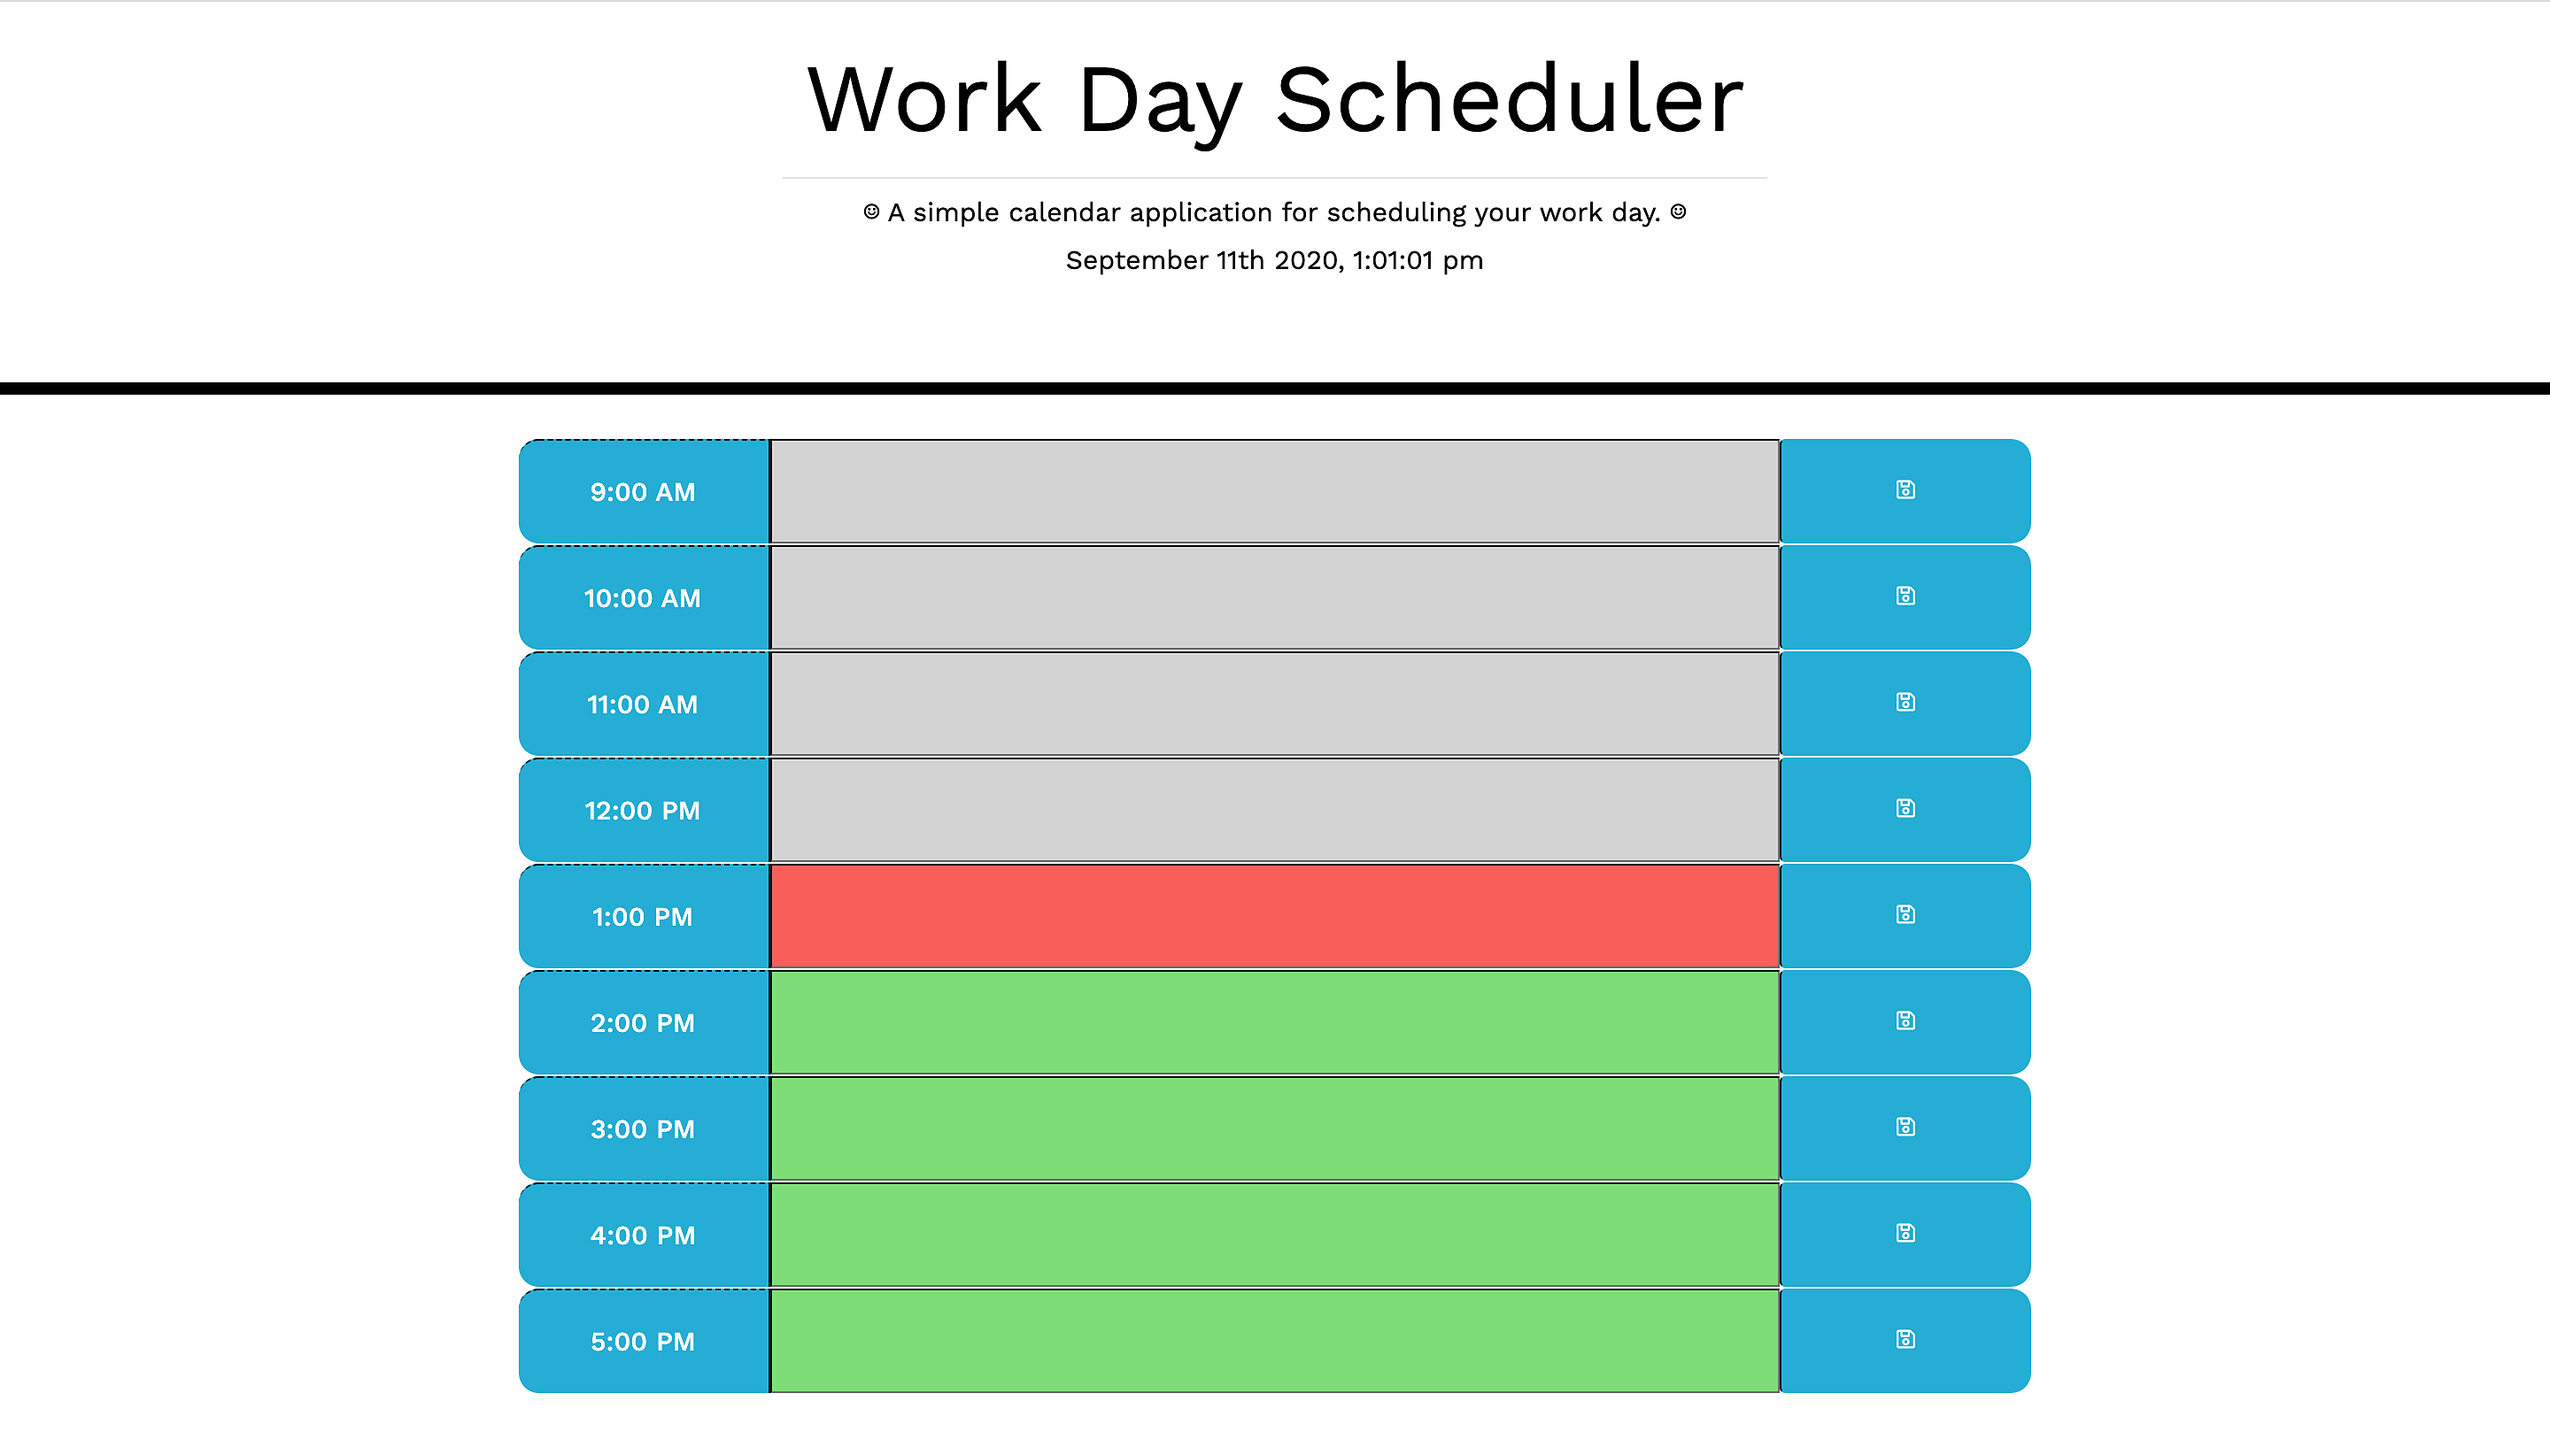
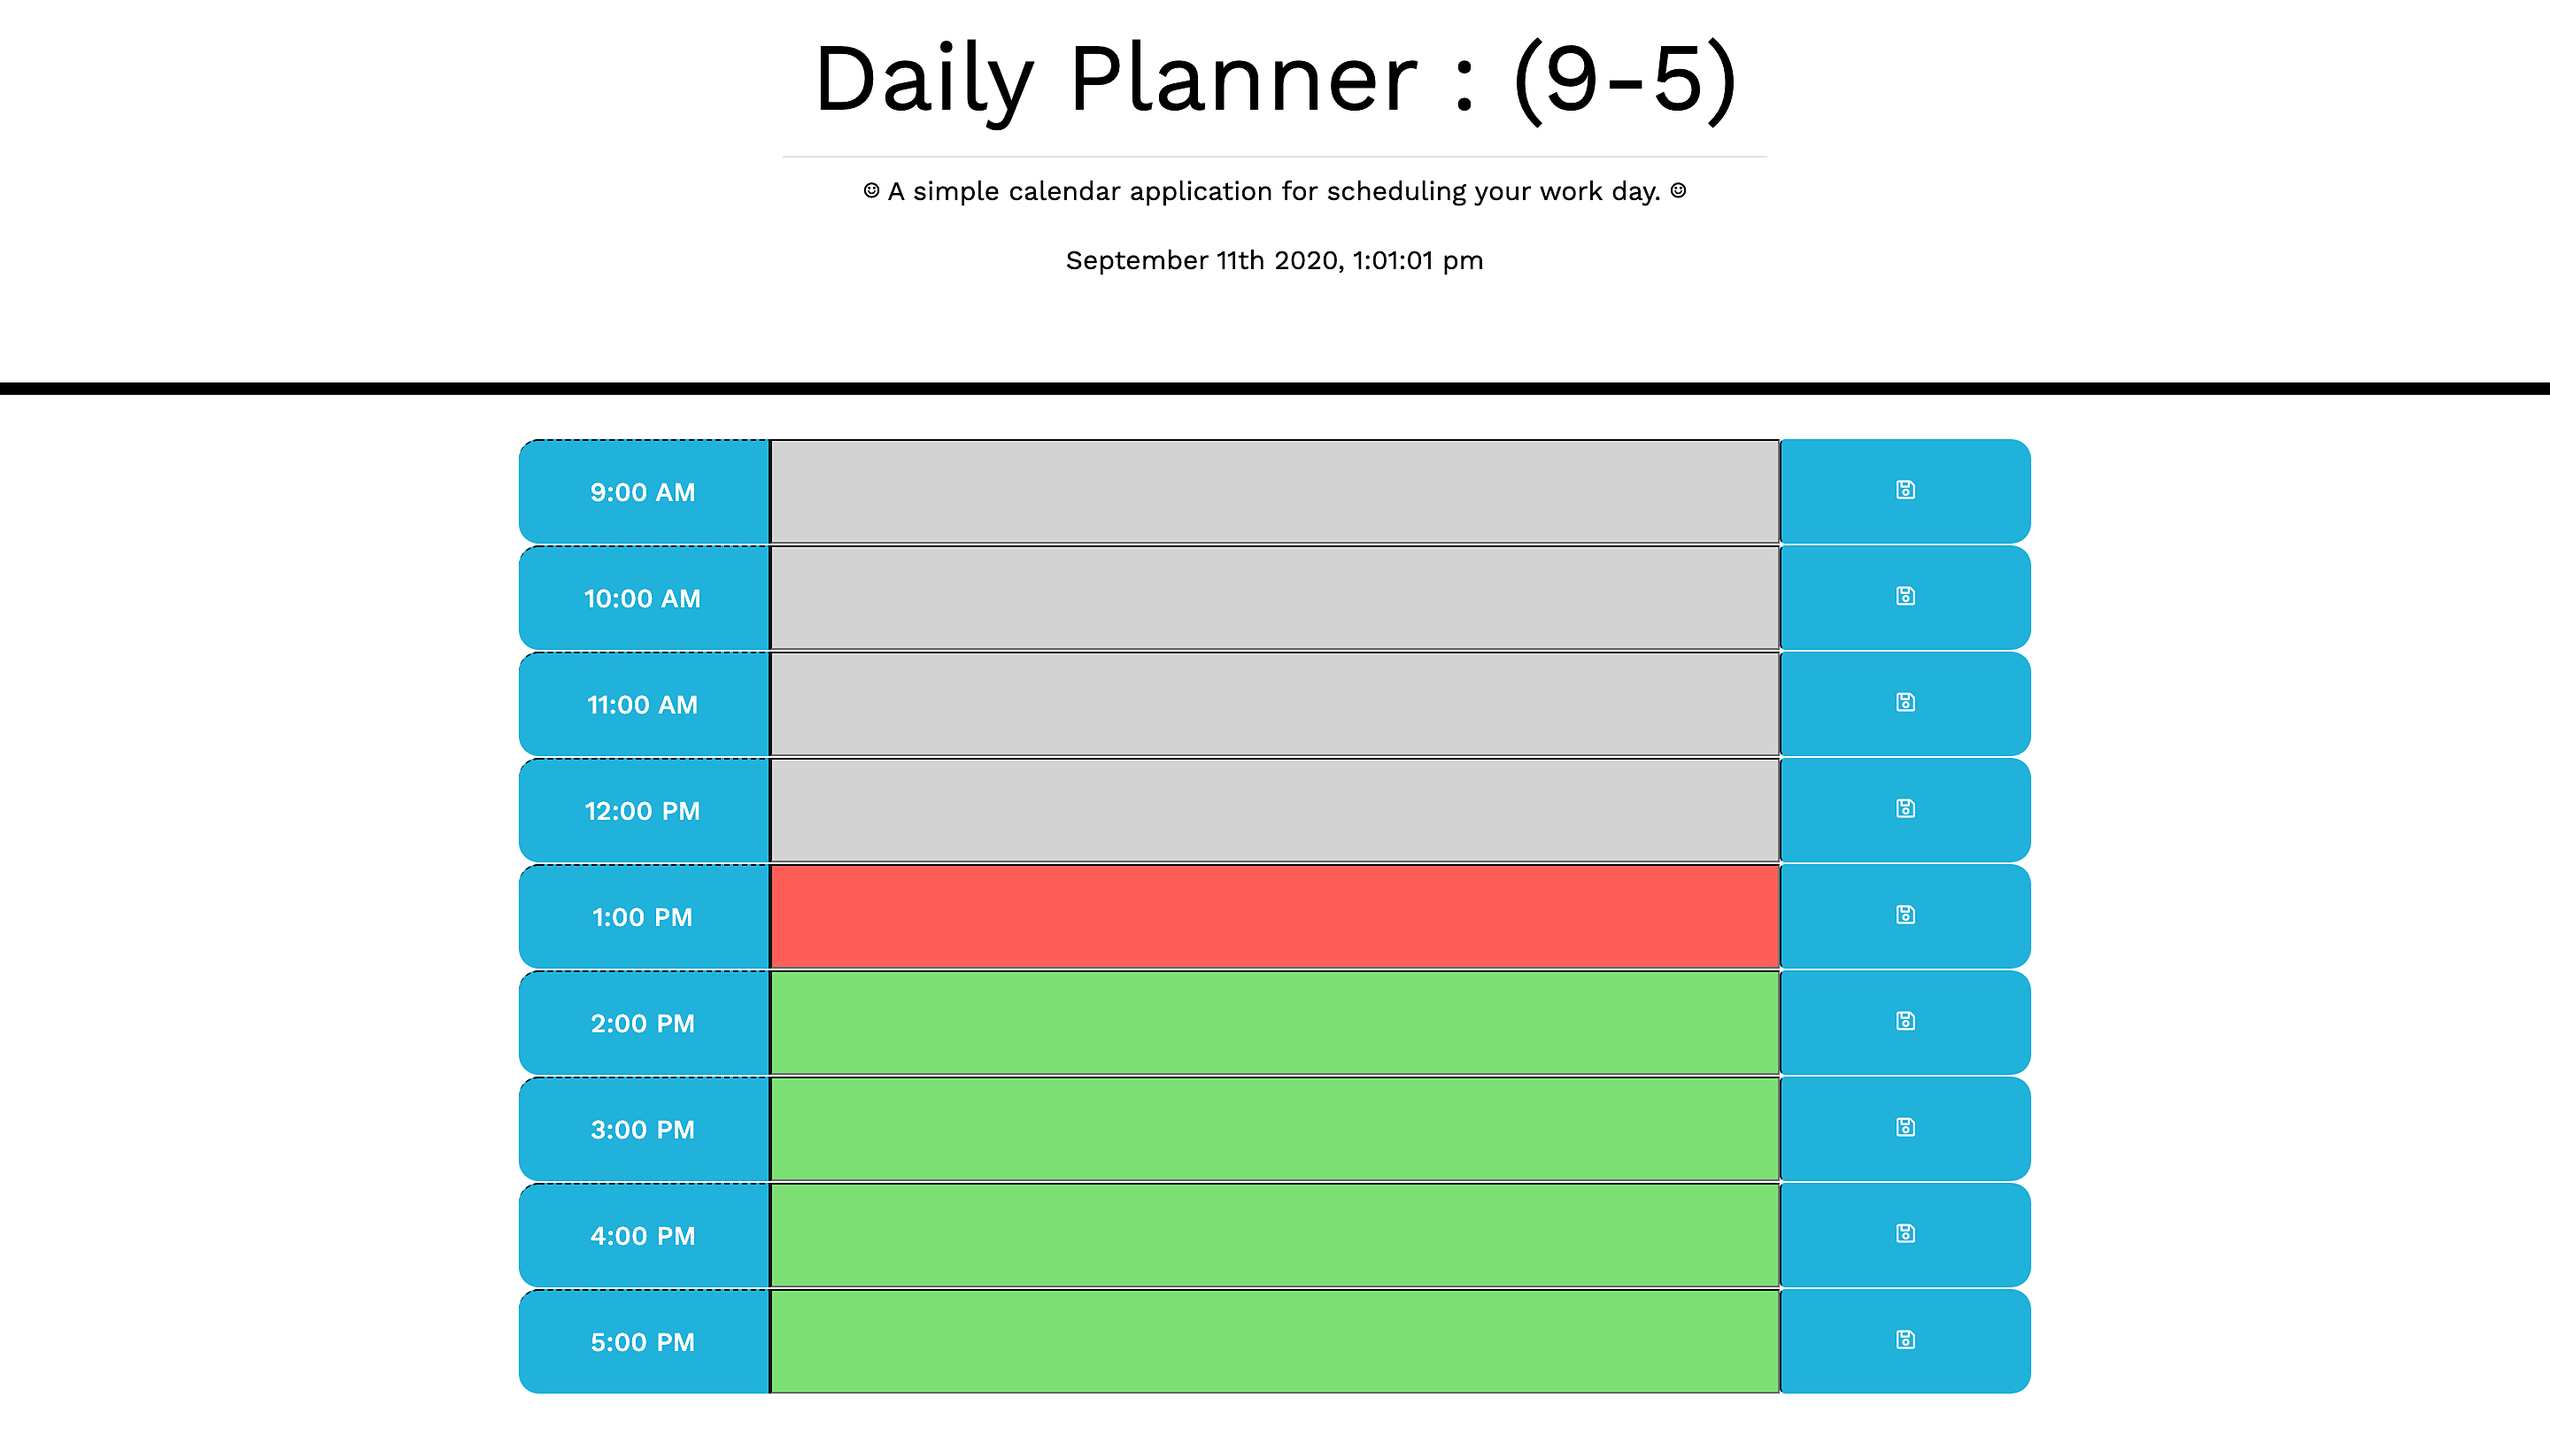
final cosmetic updates.

diff --git a/index.html b/index.html
@@ -29,16 +29,17 @@
 
   <link rel="stylesheet" href="style.css" />
 
-  <title>Work Day Scheduler</title>
+  <title>Daily Planner : (9-5)</title>
 </head>
 
 <!-- application  title + #currentDay ID for active date and time -->
 
 <body>
   <header class="jumbotron">
-    <h1 class="display-3">Work Day Scheduler</h1>
+    <h1 class="display-3">Daily Planner : (9-5)</h1>
     <hr>
     <p class="lead">☺ A simple calendar application for scheduling your work day. ☺</p>
+    <br>
     <p id="currentDay" class="lead"></p>
   </header>
 

diff --git a/README.md b/README.md
@@ -9,8 +9,8 @@
 
 ### Project Description:
 
-&nbsp;
-This is a simple daily work day scheduler. This application is a single page interface and allows a user to enter some notes on an hourly time block. The user can store their events between the hours of 9am-5pm. The information can be stored by hitting the save button to the right after entry. The application utilizes local storage to store the notes even after the page is refreshed, or the user navigates away from the page. It also utilizes a color time block concept which considers the past(grey), present(red), and future(green) events. There is also a live clock at the top of the page that is accurate to the second. Current time is being routed via http://moment.js which is freely distributable under the terms of the MIT license.  This scheduling application was constructed using a single HTML file, a JavaScript file, and a CSS file. A schedule/clock favicon was generated via favic-o-matic. I utilized the Bootstrap CDN for some elements, jQuery CDN, FontAwesome for icons and worked with a contemporary font named "Work Sans" that was obtained through google fonts and designed by Wei Huang, a type designer from Australia. 
+
+This is a simple daily work day scheduler. This application is a single page interface and allows a user to enter some notes on an hourly time block. The user can store their events between the hours of 9am-5pm. The information can be stored by hitting the save button to the right after entry. The application utilizes local storage to store the notes even after the page is refreshed, or the user navigates away from the page. It also utilizes a color time block concept which considers the past(grey), present(red), and future(green) events. There is also a live clock at the top of the page that is accurate to the second. Current time is being routed via http://moment.js which is freely distributable under the terms of the MIT license.  This scheduling application was constructed using a single HTML file, a JavaScript file, and a CSS file. A schedule/clock favicon was generated via favic-o-matic. I utilized the Bootstrap CDN for row/column layout, jQuery CDN, FontAwesome for icons and worked with a contemporary font named "Work Sans" that was obtained through google fonts and designed by Wei Huang, a type designer from Australia. Hope you have a great "time" using this.
 
 
 
